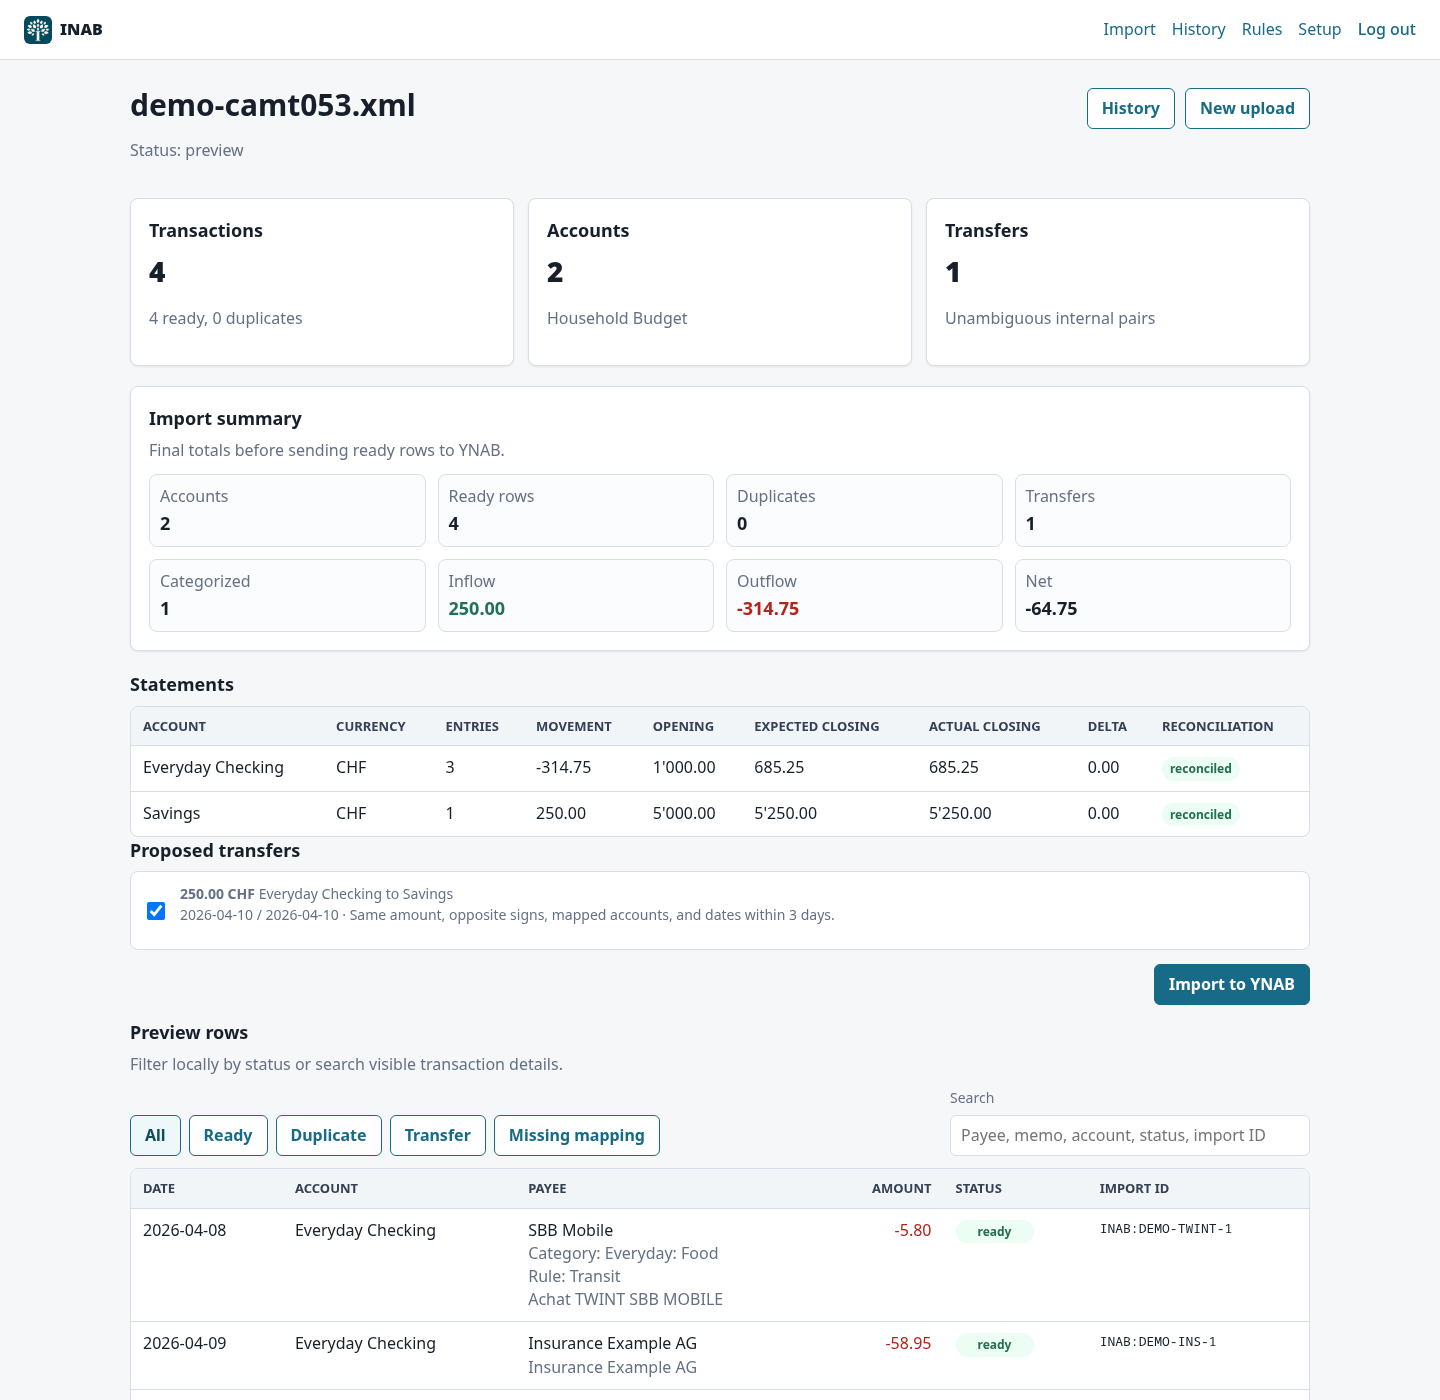
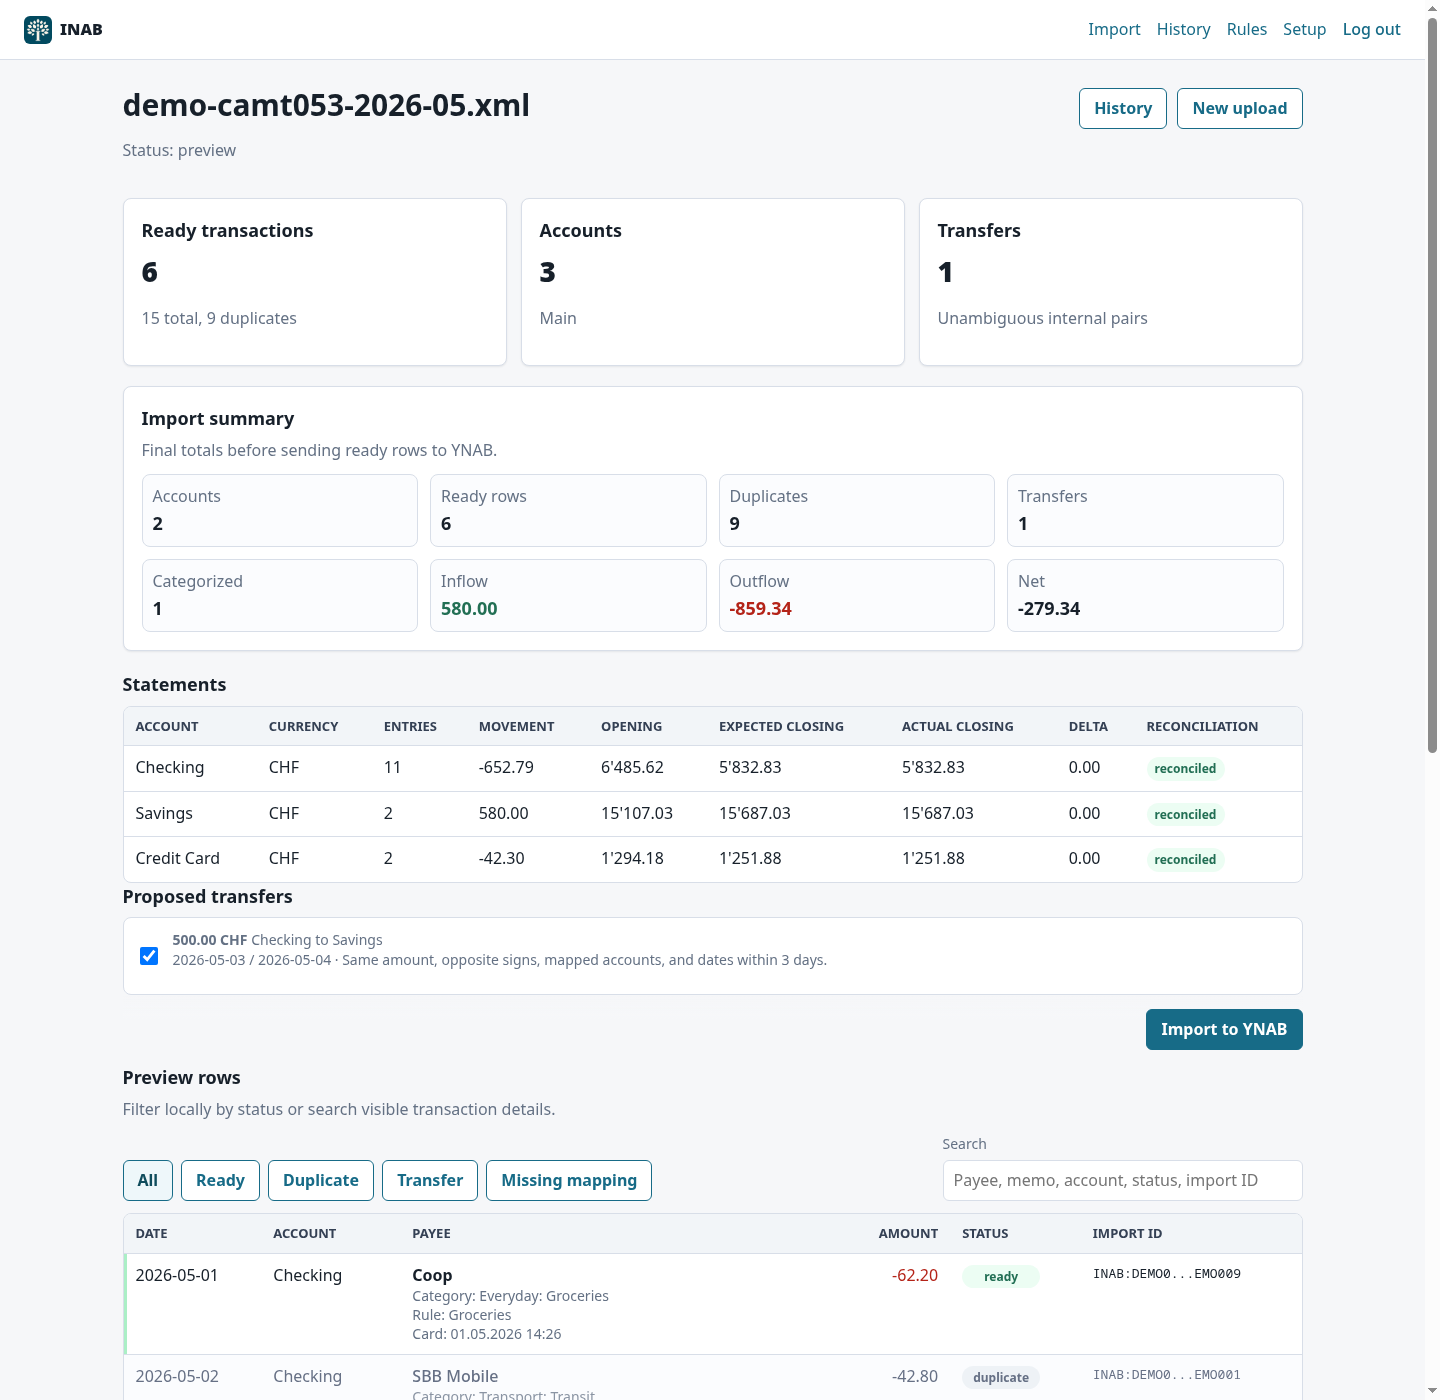
Improve import preview readability

diff --git a/src/inab/templates/preview.html b/src/inab/templates/preview.html
@@ -65,7 +65,7 @@
     {% if job.result.submitted_transactions %}
       <h3 class="result-table-heading">Bank rows submitted by INAB</h3>
       <div class="table-wrap mobile-card-wrap">
-        <table class="mobile-card-table">
+        <table class="mobile-card-table transaction-table">
           <thead>
             <tr>
               <th>Date</th>
@@ -100,7 +100,7 @@
     {% if job.result.ynab_transactions %}
       <h3 class="result-table-heading">Transactions returned by YNAB</h3>
       <div class="table-wrap mobile-card-wrap">
-        <table class="mobile-card-table">
+        <table class="mobile-card-table transaction-table">
           <thead>
             <tr>
               <th>Date</th>
@@ -201,9 +201,9 @@
 {% if job.payload.statements %}
 <section class="status-grid">
   <div class="panel">
-    <h2>Transactions</h2>
-    <p class="metric">{{ job.payload.transaction_count }}</p>
-    <p class="muted">{{ job.payload.ready_count }} ready, {{ job.payload.duplicate_count }} duplicates</p>
+    <h2>Ready transactions</h2>
+    <p class="metric">{{ job.payload.ready_count }}</p>
+    <p class="muted">{{ job.payload.transaction_count }} total, {{ job.payload.duplicate_count }} duplicates</p>
   </div>
   <div class="panel">
     <h2>Accounts</h2>
@@ -335,7 +335,7 @@
     </label>
   </div>
   <div class="table-wrap mobile-card-wrap">
-    <table class="mobile-card-table">
+    <table class="mobile-card-table transaction-table">
       <thead>
         <tr>
           <th>Date</th>
@@ -352,22 +352,22 @@
             <td data-label="Date">{{ row.transaction.booking_date }}</td>
             <td data-label="Account">{{ row.ynab_account_name or row.transaction.iban }}</td>
             <td data-label="Payee">
-              {{ row.transaction.payee }}
+              <span class="payee-primary">{{ row.transaction.payee }}</span>
               {% if row.transaction.original_payee %}
-                <span class="muted block">Original payee: {{ row.transaction.original_payee }}</span>
+                <span class="muted block transaction-detail">Original payee: {{ row.transaction.original_payee }}</span>
               {% endif %}
               {% if row.transaction.category_name %}
-                <span class="muted block">Category: {{ row.transaction.category_name }}</span>
+                <span class="muted block transaction-detail">Category: {{ row.transaction.category_name }}</span>
               {% endif %}
               {% if row.transaction.applied_rule_name %}
-                <span class="muted block">Rule: {{ row.transaction.applied_rule_name }}</span>
+                <span class="muted block transaction-detail">Rule: {{ row.transaction.applied_rule_name }}</span>
               {% endif %}
               {% if row.transaction.memo %}
-                <span class="muted block">{{ row.transaction.memo }}</span>
+                <span class="muted block transaction-detail">{{ row.transaction.memo }}</span>
               {% endif %}
               {% if row.duplicate_match %}
-                <span class="muted block">
-                  Duplicate: {{ row.duplicate_match.match_type }} matched {{ row.duplicate_match.matched_import_id }}
+                <span class="duplicate-match" title="{{ row.duplicate_match.match_type }} matched {{ row.duplicate_match.matched_import_id }}">
+                  Already imported
                   {% if row.duplicate_match.existing_date %} on {{ row.duplicate_match.existing_date }}{% endif %}
                   {% if row.duplicate_match.existing_amount %} for {{ row.duplicate_match.existing_amount|money }}{% endif %}
                 </span>
@@ -375,7 +375,7 @@
             </td>
             <td class="right amount {% if row.transaction.amount|string|first == '-' %}negative{% else %}positive{% endif %}" data-label="Amount">{{ row.transaction.amount|money }}</td>
             <td data-label="Status"><span class="chip chip-{{ row.status }}">{{ row.status }}</span></td>
-            <td class="mono" data-label="Import ID">{{ row.transaction.import_id }}</td>
+            <td class="mono" data-label="Import ID" title="{{ row.transaction.import_id }}">{{ row.transaction.import_id[:10] }}{% if row.transaction.import_id|length > 10 %}...{{ row.transaction.import_id[-6:] }}{% endif %}</td>
           </tr>
         {% endfor %}
       </tbody>

diff --git a/src/inab/static/app.css b/src/inab/static/app.css
@@ -523,6 +523,71 @@ tr:last-child td {
   border-bottom: 0;
 }
 
+.transaction-table tbody tr:nth-child(even) {
+  background: #fbfcfe;
+}
+
+.transaction-table tbody tr:nth-child(even) td {
+  background: #fbfcfe;
+}
+
+.transaction-table tbody tr[data-status="ready"] td:first-child {
+  box-shadow: inset 3px 0 0 #abefc6;
+}
+
+.payee-primary {
+  display: block;
+  color: var(--text);
+  font-weight: 650;
+}
+
+.transaction-detail {
+  font-size: 14px;
+  line-height: 1.35;
+}
+
+.duplicate-match {
+  display: inline-flex;
+  align-items: center;
+  width: fit-content;
+  max-width: 100%;
+  margin-top: 5px;
+  border-radius: 999px;
+  background: #eef2f6;
+  color: #667085;
+  padding: 2px 8px;
+  font-size: 12px;
+  font-weight: 700;
+}
+
+.transaction-table tbody tr[data-status="duplicate"] td {
+  color: #667085;
+}
+
+.transaction-table tbody tr[data-status="duplicate"] .payee-primary {
+  color: #667085;
+  font-weight: 500;
+}
+
+.transaction-table tbody tr[data-status="duplicate"] .muted {
+  color: #8a94a3;
+}
+
+.transaction-table tbody tr[data-status="duplicate"] .mono {
+  color: #667085;
+}
+
+.transaction-table tbody tr[data-status="duplicate"] .amount,
+.transaction-table tbody tr[data-status="duplicate"] .negative,
+.transaction-table tbody tr[data-status="duplicate"] .positive {
+  color: #667085;
+}
+
+.transaction-table tbody tr[data-status="duplicate"] .chip-duplicate {
+  background: #eef2f6;
+  color: #667085;
+}
+
 .right {
   text-align: right;
 }

diff --git a/tests/test_web.py b/tests/test_web.py
@@ -246,7 +246,8 @@ def test_upload_preview_marks_existing_import_id_as_duplicate(app_client: tuple[
     assert response.status_code == 200
     assert "duplicate" in response.text
     assert "INAB:REF1" in response.text
-    assert "Duplicate: import_id matched INAB:REF1" in response.text
+    assert "Already imported" in response.text
+    assert 'title="import_id matched INAB:REF1"' in response.text
     assert gateway.existing_calls == [("plan-1", "checking-id", date(2026, 4, 10))]
 
 
